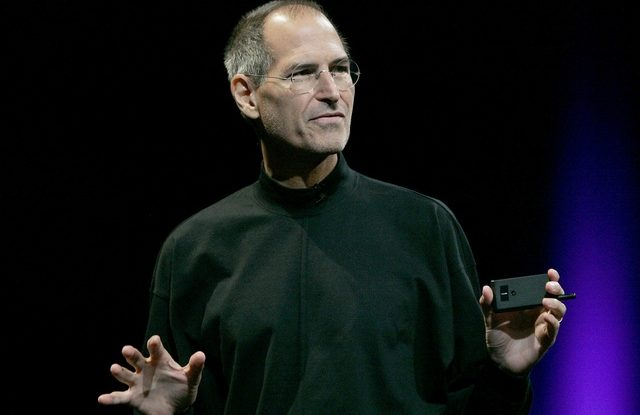
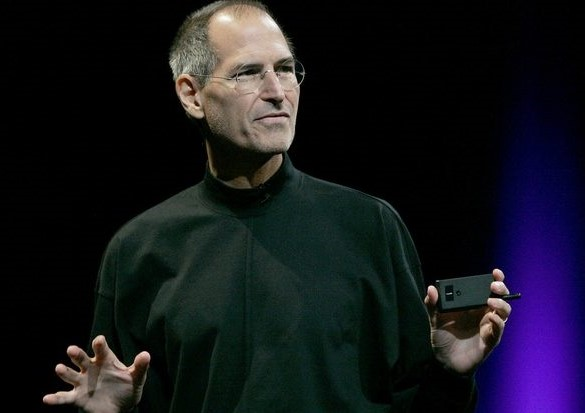
HTML and some styles
- Created banner section and changed background image to Steve Jobs Photo
- Created main content container, added margin-top: -5% to move above banner
- Added colors for text
- General layout changes

diff --git a/css/styles.css b/css/styles.css
@@ -1,3 +1,65 @@
-h1 {
-  color: red;
+/* ===============================================================================
+MAIN STYLES
+=============================================================================== */
+
+body {
+  width: 85%;
+  margin: auto;
+  color: #472681;
+}
+
+/* ===============================================================================
+STEVE JOBS BANNER
+=============================================================================== */
+
+#banner {
+  width: 100%;
+  min-height: 300px;
+  background-image: url("../images/Steve_Jobs_Speech_Photo.jpg");
+  background-position: 50% 50%;
+  background-repeat: no-repeat;
+  background-size: cover;
+}
+
+/* ===============================================================================
+MAIN CONTENT
+=============================================================================== */
+
+#content-container {
+  width: 95%;
+  margin-top: -5%;
+  z-index: 1000;
+  background-color: white;
+  border-radius: 5%;
+}
+
+.categories {
+  border-bottom: 2px solid #472681;
+  margin-top: 2%;
+  padding: 1.5%;
+}
+
+.stats {
+  display: inline-block;
+  font-weight: 600;
+}
+
+
+h2 {
+  font-size: 3rem;
+  font-weight: 700;
+}
+
+h5 {
+  margin-top: 5%;
+}
+
+h6 {
+  font-weight: 700;
+  font-size: 1.05rem;
+}
+
+p {
+  font-weight: 400;
+  font-size: 1.8rem;
 }

diff --git a/index.html b/index.html
@@ -8,7 +8,42 @@
     <title>Red Snapper UI Task</title>
   </head>
   <body>
-    <img src="./images/Steve_Jobs_Speech_Photo.jpg" alt="Steve Jobs Speech Photo" id="steve-jobs-banner">
+    <!-- BANNER -->
+    <div id="banner" class="container-fluid">
+    </div>
+
+    <!-- CONTAINER -->
+    <div class="container-fluid" id="content-container">
+      <div class="categories">
+        <h2>Steve Jobs</h2>
+        <h6>FOLLOW</h6>
+      </div>
+
+      <div class="categories">
+        <div class="stats">
+          313 Patents
+        </div>
+        <div class="stats">
+          1M 50k FOLLOWERS
+        </div>
+        <div class="stats">
+          361 FOLLOWING
+        </div>
+      </div>
+      <div>
+        <h5>CATEGORIES</h5>
+        <div class="categories">
+          <p>Electronic Devices</p>
+        </div>
+        <div class="categories">
+          <p>Design</p>
+        </div>
+        <div class="categories">
+          <p>Transportation</p>
+        </div>
+      </div>
+    </div>
+
 
 
     <script src="https://code.jquery.com/jquery-3.3.1.slim.min.js" integrity="sha384-q8i/X+965DzO0rT7abK41JStQIAqVgRVzpbzo5smXKp4YfRvH+8abtTE1Pi6jizo" crossorigin="anonymous"></script>
